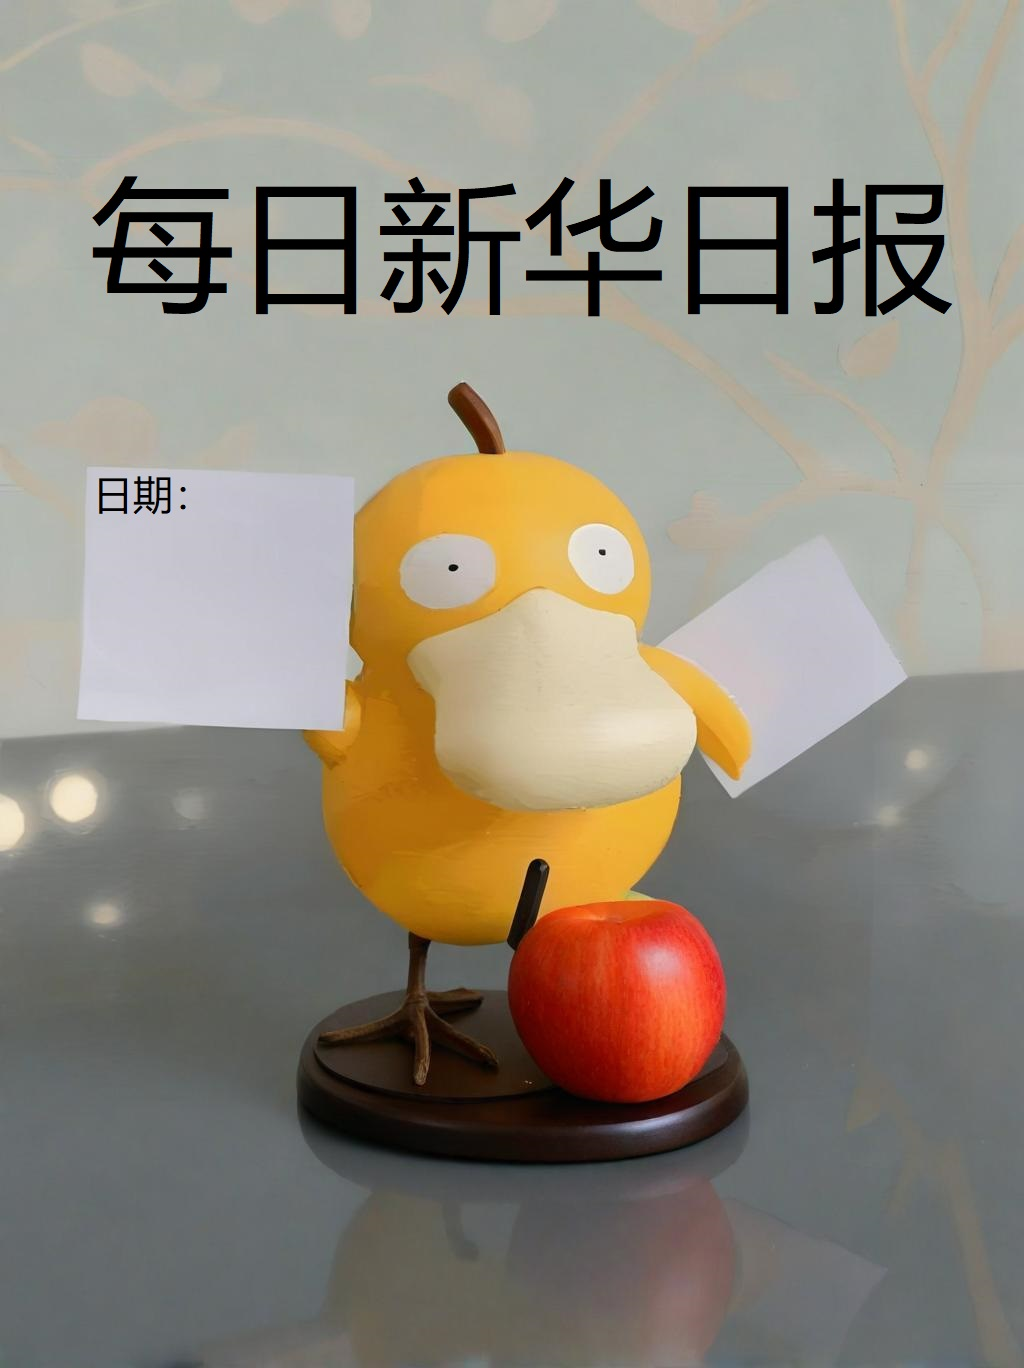
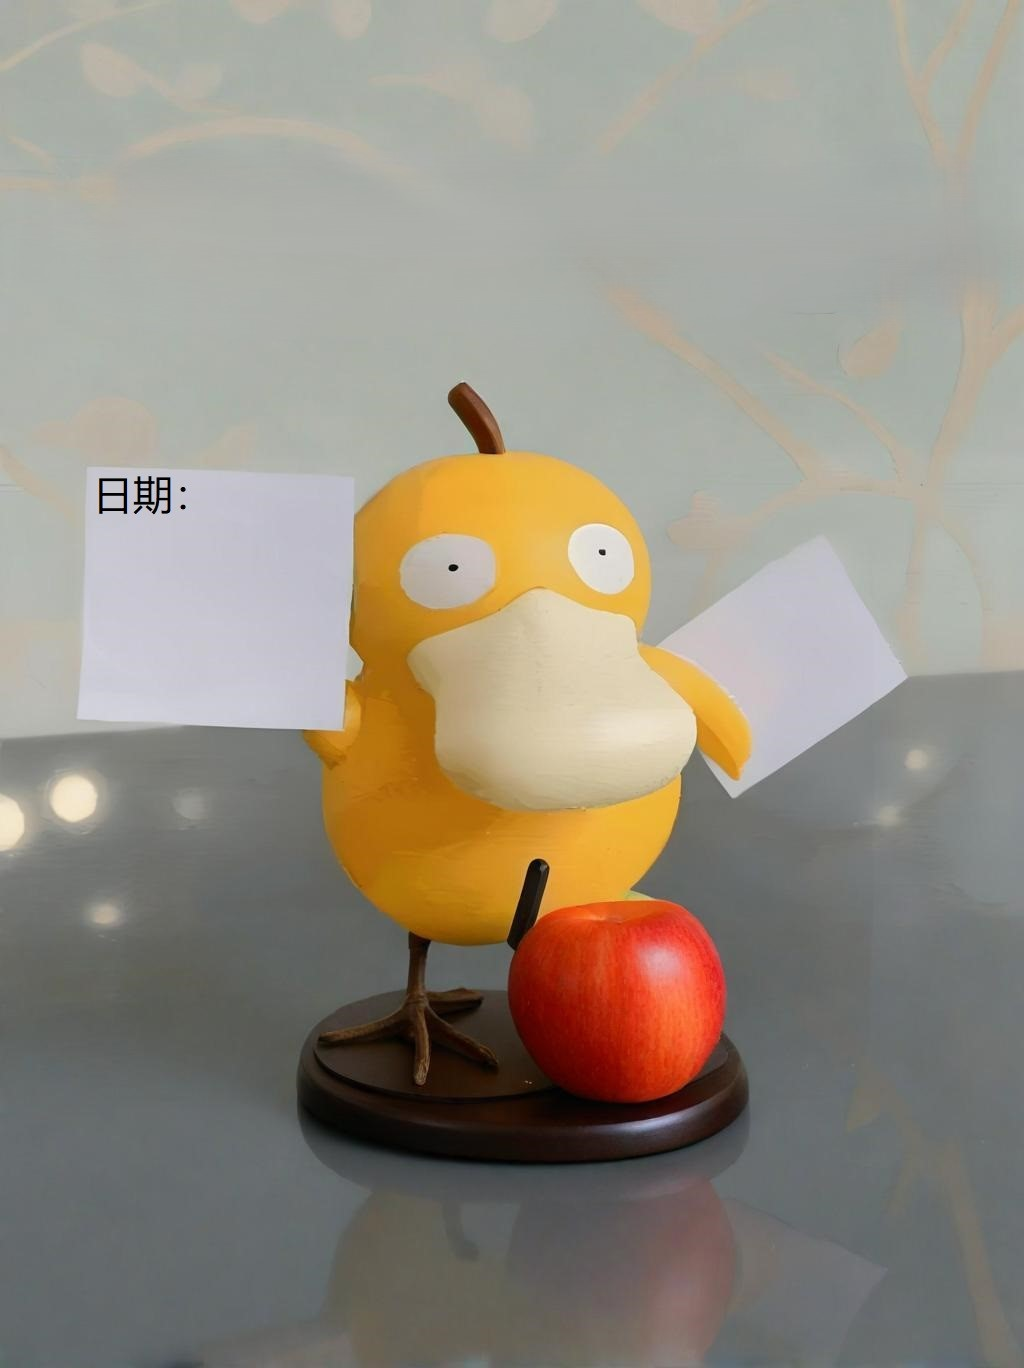
完善新华日报封面

Changed region(s): [[0.25, 0.1228, 0.9375, 0.2456], [0.0938, 0.1228, 0.2188, 0.2456]]

diff --git a/lib/xhrb.c b/lib/xhrb.c
@@ -82,7 +82,8 @@ void extract_xhrb(char* time, FILE *log)
     char year[5] ;
     year[4] = '\0';
     html_fix(year,time,4);
-    overlay_text_on_image("lib/kedaya.jpg","temp/xhrb/epub/OEBPS/cover.jpg" , year, 85, 540, 100);
+    overlay_text_on_image("lib/kedaya.jpg","temp/xhrb/epub/OEBPS/cover.jpg" , "新华日报", 120, 100, 200);
+    overlay_text_on_image("temp/xhrb/epub/OEBPS/cover.jpg","temp/xhrb/epub/OEBPS/cover.jpg" , year, 85, 540, 100);
     overlay_text_on_image("temp/xhrb/epub/OEBPS/cover.jpg","temp/xhrb/epub/OEBPS/cover.jpg" , time+4, 85, 640, 100);
     epub("temp/xhrb/", txt_name , log);
 } 
